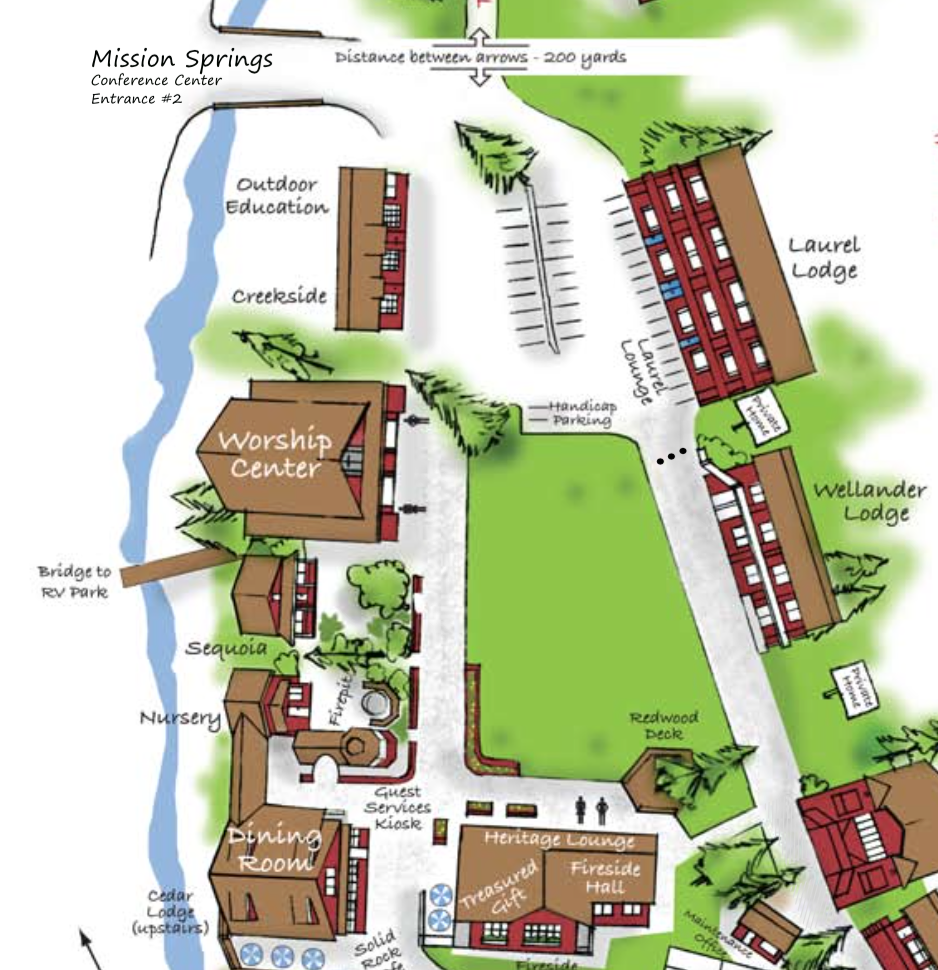
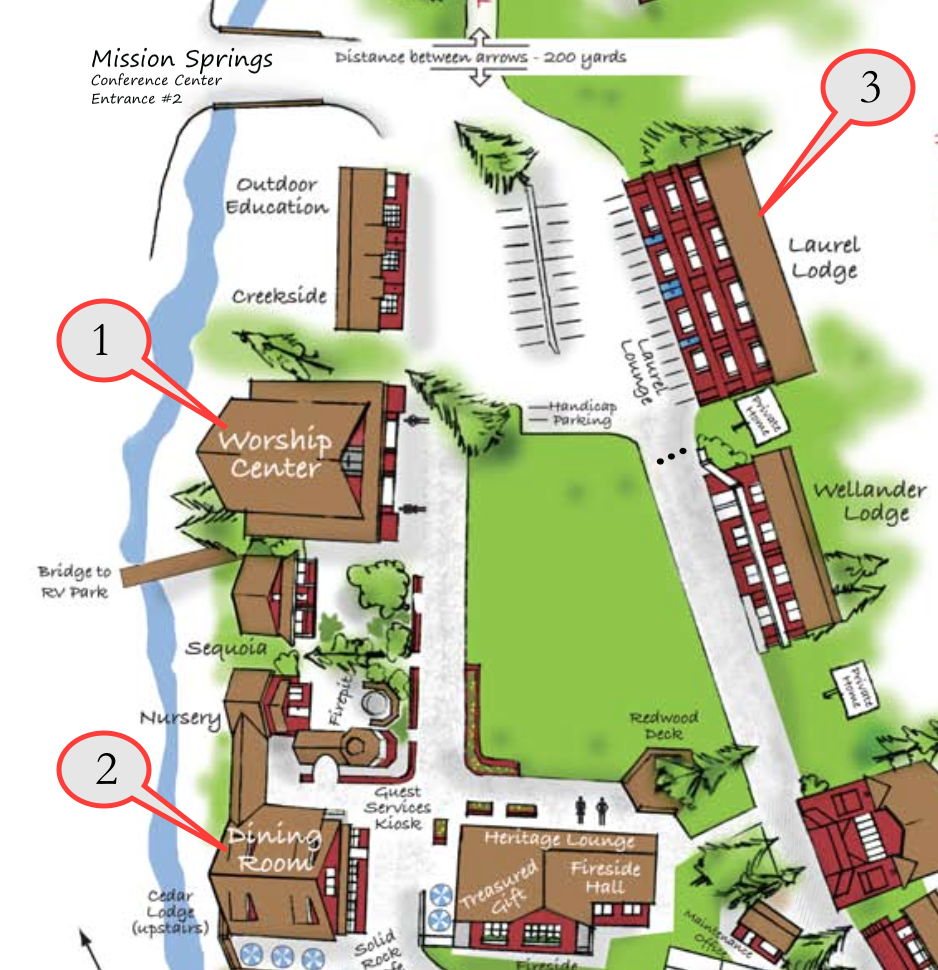
update FAQ for bay area 3/24-26 camp

diff --git a/_posts/2017-03-17-bay-area-faq.md b/_posts/2017-03-17-bay-area-faq.md
@@ -18,27 +18,23 @@ Dear LIFEgame participants, are you ready for a life-changing experience, as it 
           <p>GPS address 营地地址: 1050 Lockhart Gulch Rd, Scotts Valley, CA 95066</p>
         </div>
         <div class="card-action">
-          <p><a href="http://www.missionsprings.com/">Mission Springs Christian Conference Center 营地网址</a></p>
+          <p><a href="http://www.missionsprings.com/">Mission Springs Christian Conference Center 营区网址</a></p>
           <p><a href="http://www.missionsprings.com/sites/default/files/MSFlatsmap_trailmap_combined.pdf">Conference Center Map 营区地图</a></p>
         </div>
       </div>
     </div>
   </div>
-</div>
-<div class="section">
   <div class="row">
     <div class="col s12 m6">
       <div class="card blue-grey darken-1">
         <div class="card-content white-text">
-          <span class="card-title">What to bring to the camp 携带物品</span>
+          <span class="card-title">What to bring 携带物品</span>
           <p>Personal hygiene items like toothbrush, toothpaste, shampoo</p>
           <p>盥洗用具(牙刷, 牙膏，洗发水等等)</p>
         </div>
       </div>
     </div>
   </div>
-</div>
-<div class="section">
   <div class="row">
     <div class="col s12 m6">
       <div class="card blue-grey darken-1">
@@ -65,8 +61,8 @@ Dear LIFEgame participants, are you ready for a life-changing experience, as it 
           <img src="/blog/MS-FacilityMap.png">
         </div>
         <div class="card-content">
-          <p>Meals will be served in Dining Room. Most of campers will stay in Laurel Lodge. All the camp sessions will be held in Worship Center.</p>
-          <p>营会将在Dining Room用餐。大多数营会会员将住在Laurel Lodge。所有营会室内活动将在Worship Center进行。</p>
+          <p>Meals will be served in Dining Room（2）. Most of campers will stay in Laurel Lodge（3）. All the camp sessions will be held in Worship Center（1）.</p>
+          <p>营会将在Dining Room (图标2) 用餐。大多数营会会员将住在Laurel Lodge （图标3）。所有营会室内活动将在Worship Center （图标1）进行。</p>
         </div>
         <div class="card-action">
           <a href="http://www.missionsprings.com/facilities">Mission Springs Facilities 查看营会设施详情</a>
